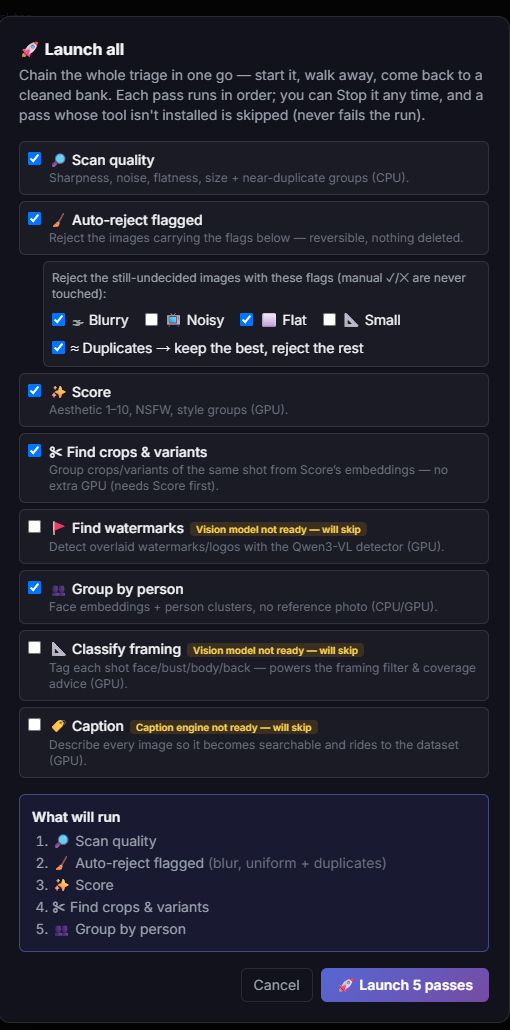
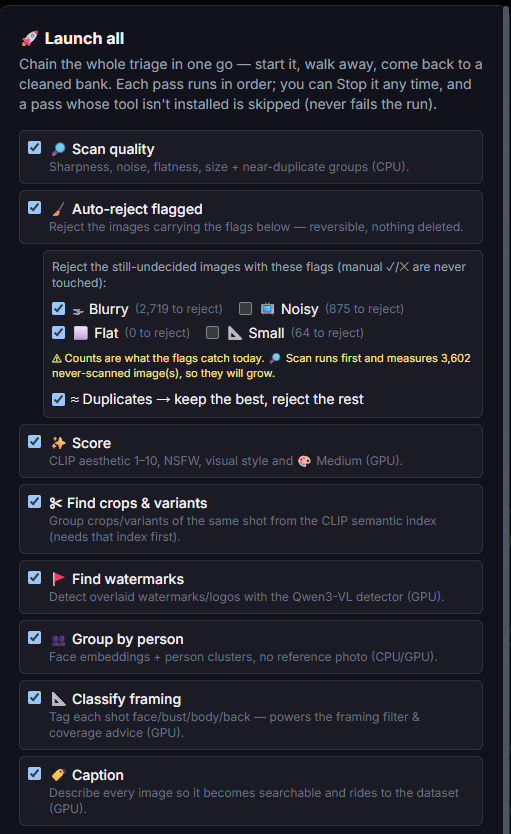
docs(readme): show Launch all as it looks on a complete install
The Launch all shot in the repo was taken on a machine missing its vision
model: three of the eight passes sat greyed out behind "will skip", and
the button read "Launch 5 passes". For the one screenshot meant to sell
the funnel, that advertised an incomplete install.

Replaced with the same dialog on a full one - all eight passes armed, and
each flag quoting what it would actually reject (2,719 blurry, 875 noisy)
plus the warning that 3,602 images have not been scanned yet, so those
counts will grow. That last line is the whole point of the dialog and the
old shot could not show it. Cropped to the dialog alone: the bank name and
the source path were in the background, and neither belongs in a public
repo. Cut below the last card rather than mid-list.

Changed region(s): [[0.0294, 0.0, 1.0, 1.0], [0.7941, 0.5612, 0.8235, 0.5923]]

diff --git a/README.md b/README.md
@@ -48,7 +48,7 @@ Point a bank at a folder, or scrape straight into one. It reads what is there **
 
 The cuts are measured rather than guessed: the aesthetic and near-duplicate thresholds were calibrated on a real bank of **7,316 images**, and every measure that cannot answer says "unsure" or "not measured" instead of inventing a verdict. The image lane is out of Beta; the **video** lane still carries the chip, and says why below.
 
-**📷 See it:** [bank overview](docs/screenshots/bank/bank-overview.png) · [launching a pass](docs/screenshots/bank/bank-launch-all.png)
+**📷 See it:** [bank overview](docs/screenshots/bank/bank-overview.png) · [**Launch all** — the whole triage in one go, each pass quoting what it would reject before you start it](docs/screenshots/bank/bank-launch-all.png)
 
 | Capability | What it provides |
 |---|---|
